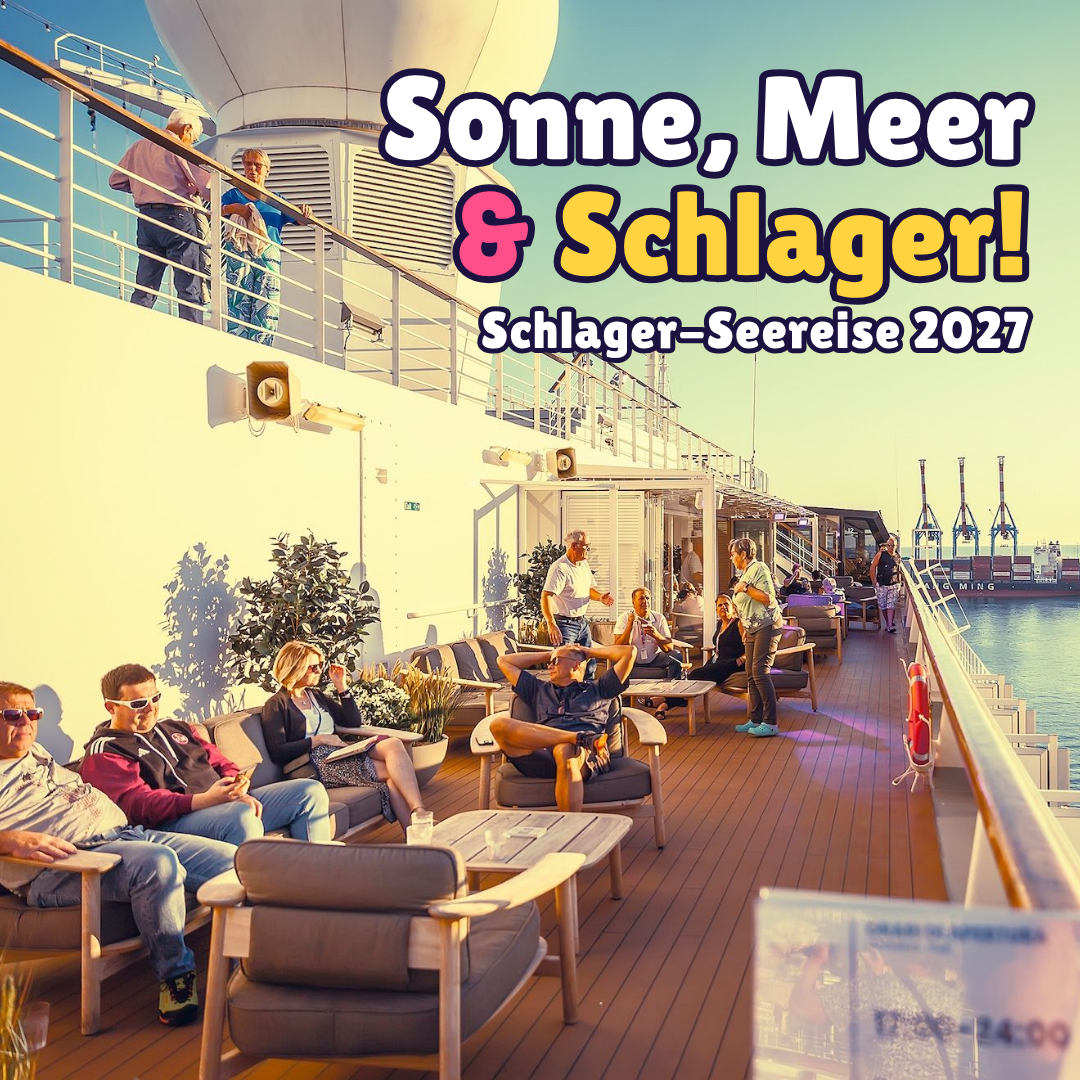
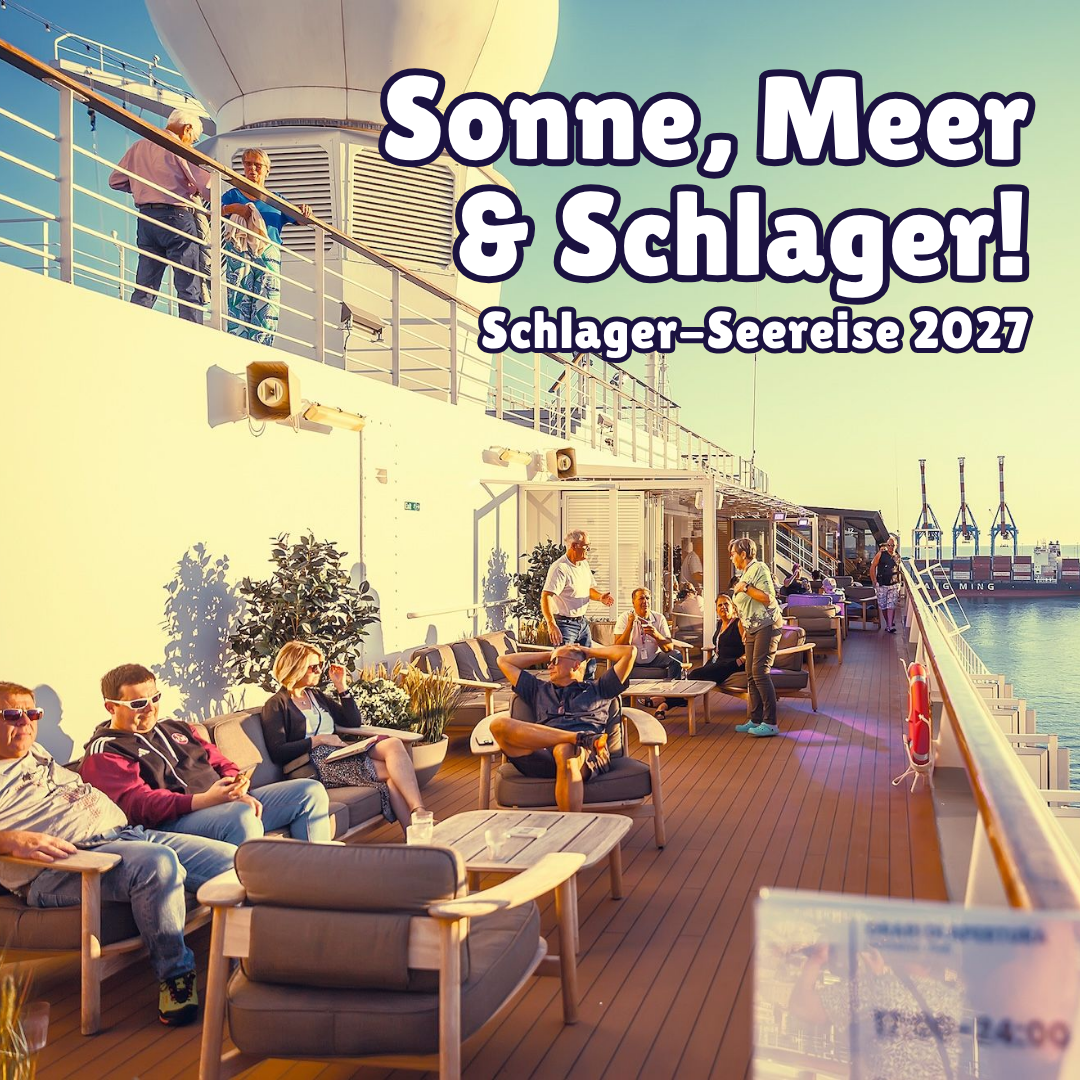
Schlager 'Sonne, Meer' creative: all-white title
Claude-Session: https://claude.ai/code/session_01WaKFhgz8ZvCc2eJNCdq1KM

Changed region(s): [[0.5194, 0.1528, 0.9472, 0.275], [0.4278, 0.1528, 0.4889, 0.275]]

diff --git a/creatives/schlager-seereise/02-sonne-meer-1x1.html b/creatives/schlager-seereise/02-sonne-meer-1x1.html
@@ -6,8 +6,8 @@ body{width:1080px;height:1080px;overflow:hidden;background:#1b1240}
 .photo{position:absolute;inset:0;width:1080px;height:1080px;object-fit:cover;object-position:12% 50%}
 .t{position:absolute;right:50px;top:60px;text-align:right;font-family:'Lilita One',sans-serif;line-height:.98;letter-spacing:1px;-webkit-text-stroke:14px #1b1240;paint-order:stroke fill}
 .l1{font-size:118px;color:#fff}
-.l2{font-size:118px;color:#ff4f8b}
-.l2 span{color:#ffd23f}
+.l2{font-size:118px;color:#fff}
+.l2 span{color:#fff}
 .l3{font-size:52px;color:#fff;margin-top:14px;-webkit-text-stroke:10px #1b1240}
 </style></head><body>
 <img class="photo" src="sonnendeck.jpg">
